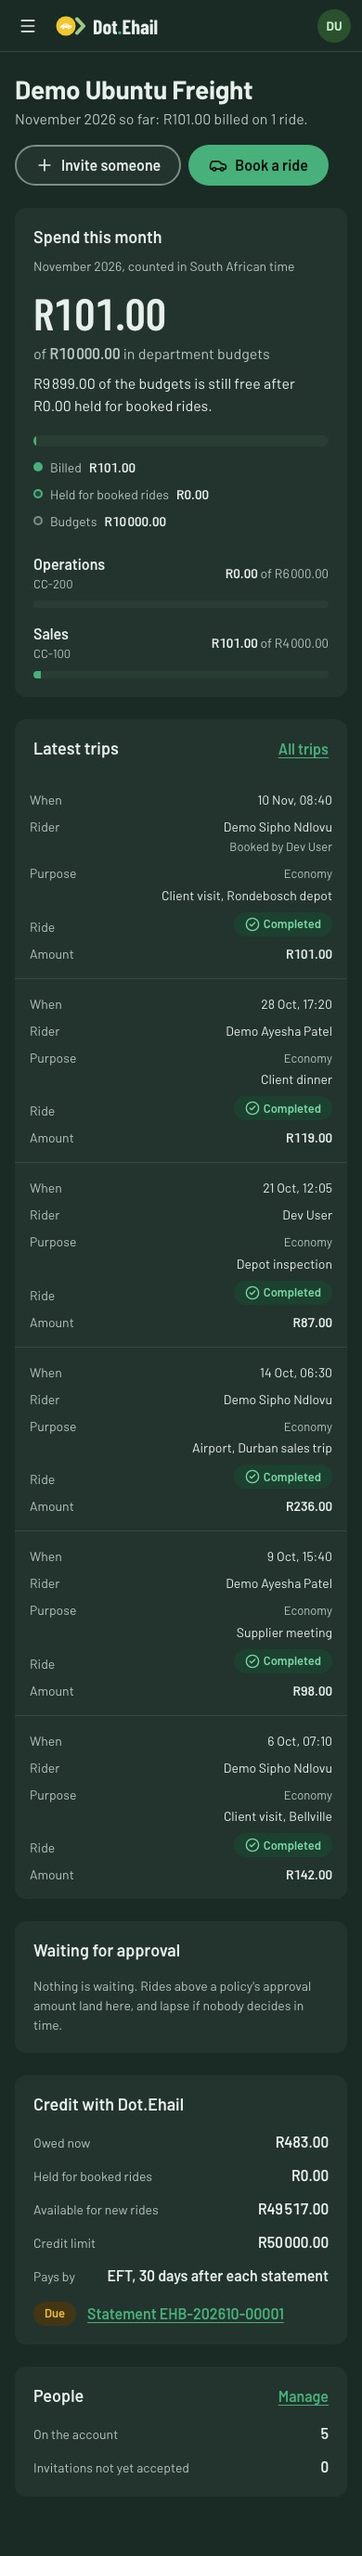
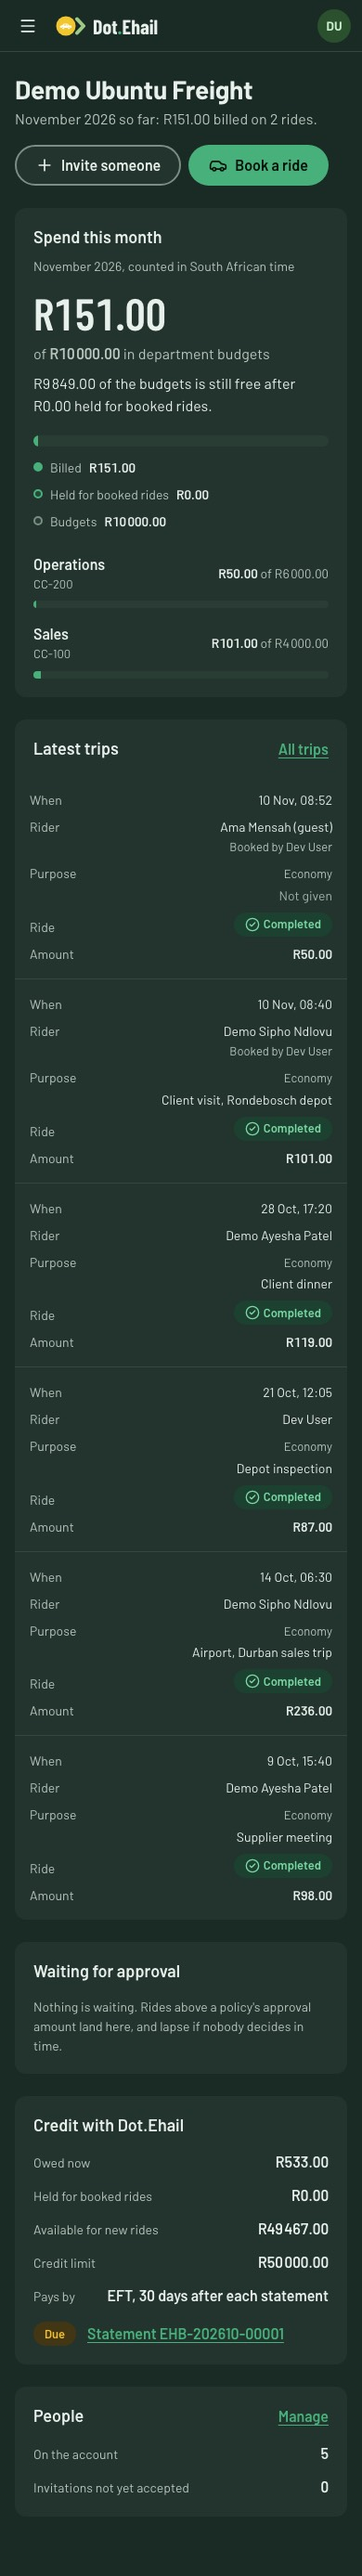
R-46 business: post-merge verification, screenshots refreshed

diff --git a/docs/R46_BUSINESS.md b/docs/R46_BUSINESS.md
@@ -85,9 +85,9 @@ Guest and rider phone numbers are stored encrypted on the business trip, shown m
 
 ## 9. Verification
 
-- PHP: suite before (after merging `feat/r46-integ`) 1115 tests, 1107 pass, 8 skipped; after 1160 tests, 1152 pass, 8 skipped. New: `tests/Feature/Business/{RideRequestPolicyTest, ApprovalsTest, BillingAndStatementsTest, BudgetConcurrencyTest, BusinessAccountsTest, IsolationAndPermissionsTest}.php` (45 tests). One existing assertion changed: `WalletAndSeamsTest` now expects `business_accounts.available = true` (the business domain is bound).
+- PHP: suite before (after merging `feat/r46-integ`) 1115 tests, 1107 pass, 8 skipped; on this branch 1160 tests, 1152 pass, 8 skipped; after merging `feat/r46-ehail` (fleet, comms) 1247 tests, 1239 pass, 8 skipped. JS: 31 pass (no business JS tests; the booking page is checked in the browser). New: `tests/Feature/Business/{RideRequestPolicyTest, ApprovalsTest, BillingAndStatementsTest, BudgetConcurrencyTest, BusinessAccountsTest, IsolationAndPermissionsTest}.php` (45 tests). One existing assertion changed: `WalletAndSeamsTest` now expects `business_accounts.available = true` (the business domain is bound).
 - `npm run build`, `php artisan view:cache`, `php artisan route:cache` pass.
-- Browser (dev server on 8613, a local OSRM + Nominatim stub, a demo driver kept online by a dev script, `DemoBusinessSeeder`): signed in as the admin, booked a ride for a traveller through `/business/book` (place search, real quotes, policy check, request through `/api/ehail/rides`), finished it with a dev script so money settled it (payment paid, charge, ledger); signed in as a traveller, saw the purpose refusal, then the approval-needed state, asked for approval; signed in as the admin, approved it from the overview queue; operator review pages; screenshots in `docs/R46_screens/business/` at 1440 and 390, light and night.
+- Browser (dev server on 8613, a local OSRM + Nominatim stub, a demo driver kept online by a dev script, `DemoBusinessSeeder`): signed in as the admin, booked a ride for a traveller through `/business/book` (place search, real quotes, policy check, request through `/api/ehail/rides`), finished it with a dev script so money settled it (payment paid, charge, ledger); signed in as a traveller, saw the purpose refusal, then the approval-needed state, asked for approval; signed in as the admin, approved it from the overview queue; after merging `feat/r46-ehail`, booked a guest ride at 390 px through the same flow against the integrated backend (masked guest phone in Trips, settled after the dev completion script); operator review pages; screenshots in `docs/R46_screens/business/` at 1440 and 390, light and night.
 
 ## 10. Owner decisions and limits
 
